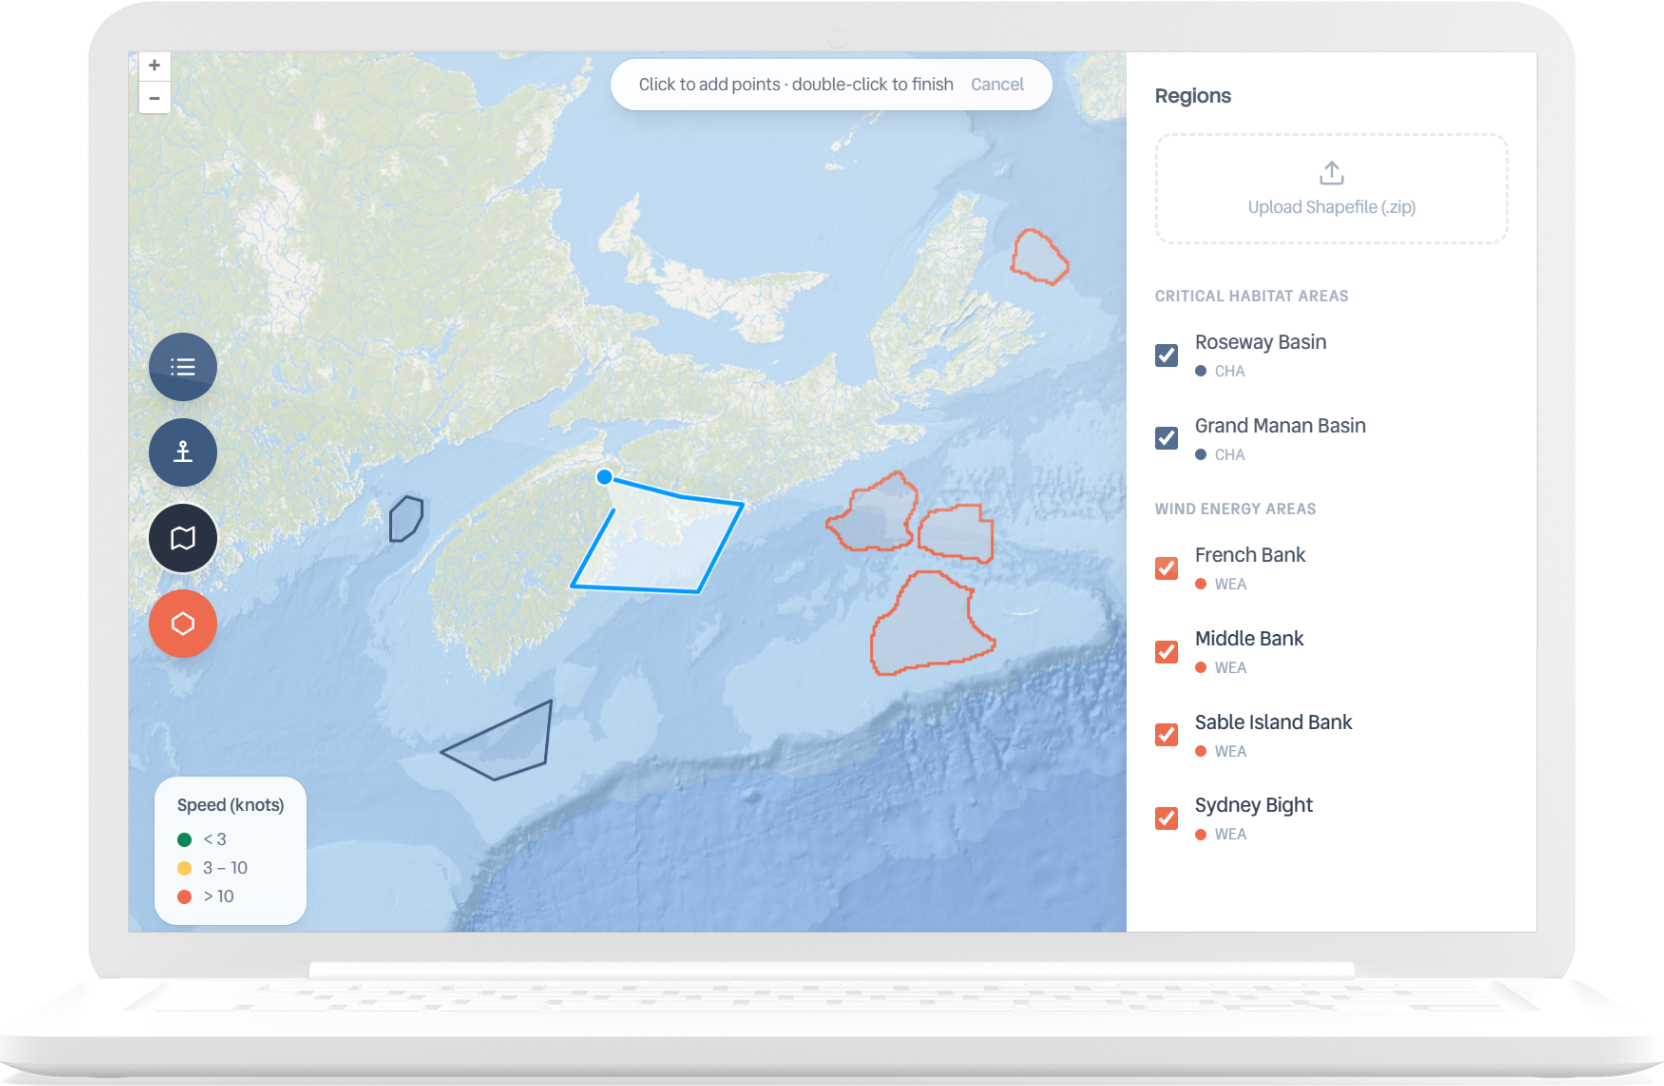
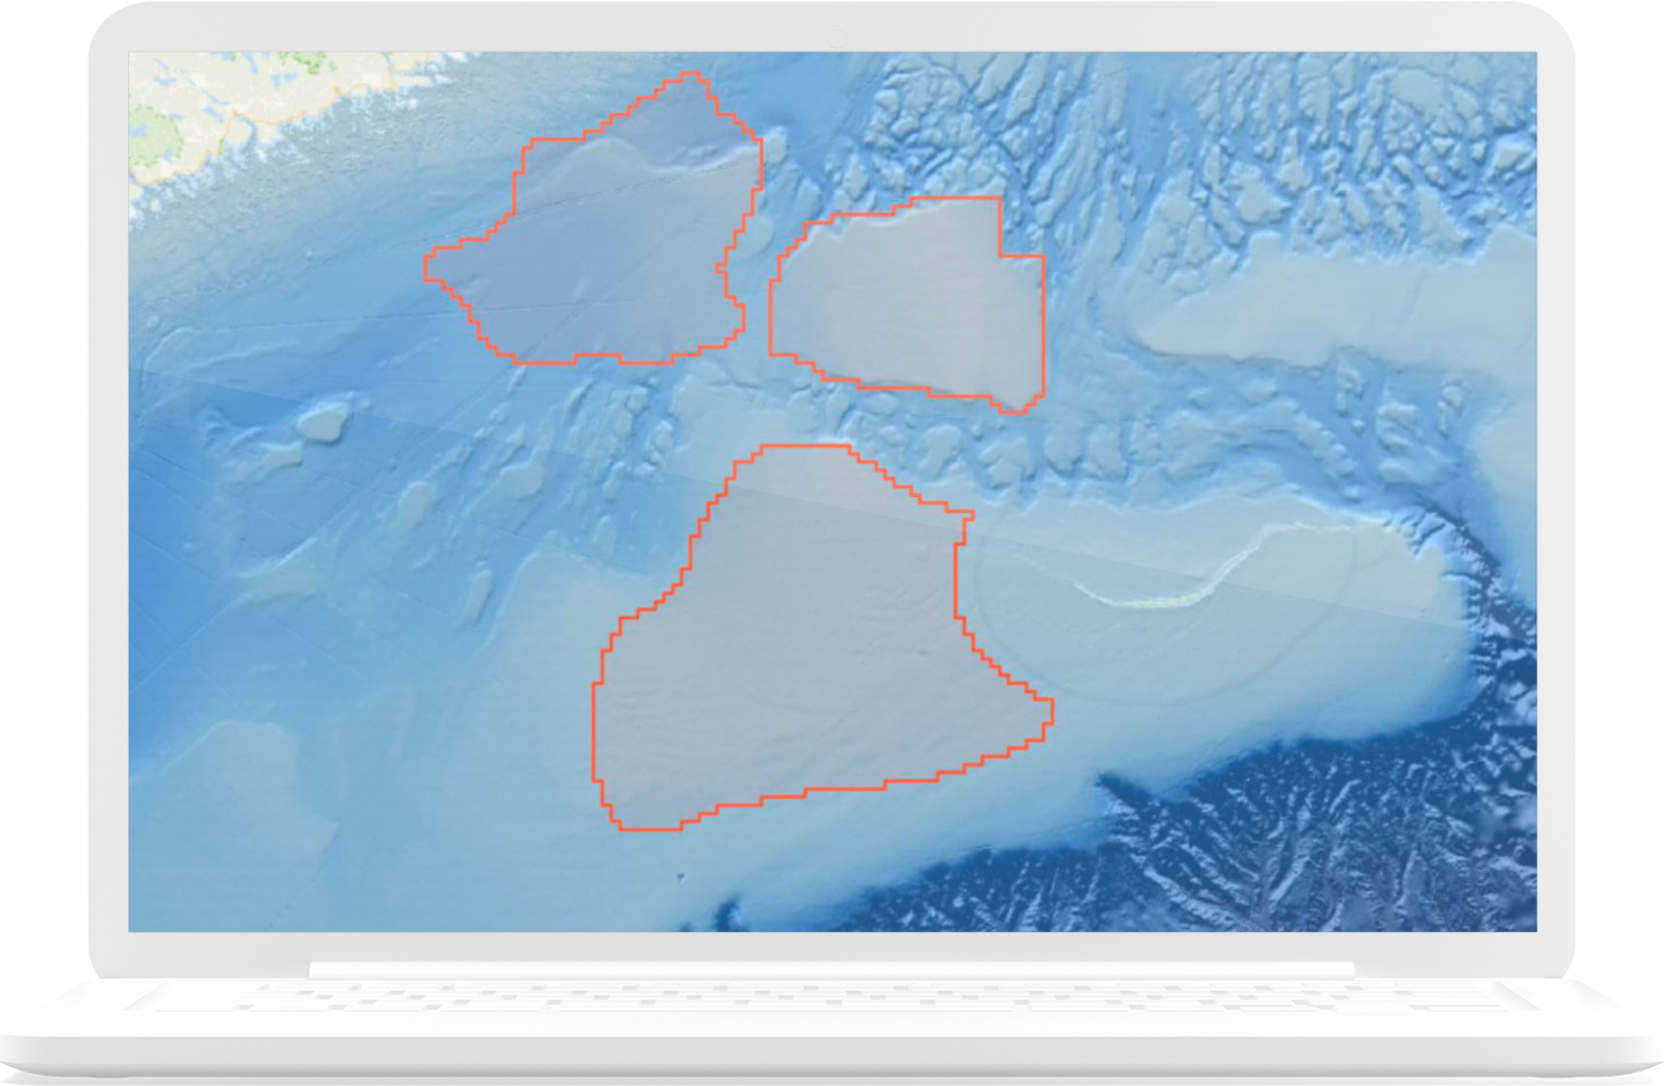
feat: hover effects on work pics + new section

diff --git a/app/work/page.tsx b/app/work/page.tsx
@@ -1,3 +1,5 @@
+import HoverImage from "@/components/HoverImage";
+
 export default function Work() {
   return (
     <main className="flex flex-grow flex-col gap-16 items-start justify-start py-10 max-w-3xl mx-auto w-full">
@@ -6,7 +8,7 @@ export default function Work() {
         style={{ animationDelay: "0s" }}
       >
         <h2 className="serif-regular text-gray-200 tracking-tight text-5xl text-left border-b border-gray-200">
-          recently
+          currently
         </h2>
 
         {/* todo: make spacing consistent */}
@@ -27,17 +29,25 @@ export default function Work() {
 
           {/* screenshots */}
           <div className="grid grid-cols-2 gap-3">
-            <img
-              src="/demos/work1.png"
-              className="rounded-lg w-full object-cover fade-in-bounce"
-              style={{ animationDelay: "0.2s" }}
-              alt="work screenshot 1"
-            />
-            <img
+            <div className="group flex flex-col gap-1">
+              <img
+                src="/demos/work1.png"
+                alt="work screenshot 1"
+                className="rounded-lg w-full object-cover fade-in-bounce hover:scale-102 transition-transform"
+                style={{ animationDelay: "0.2s" }}
+              />
+              <p className="text-xs coding-regular text-gray-400 text-center mt-1 opacity-0 group-hover:opacity-100 transition-opacity">
+                presented demo to 15+ scientists & stakeholders
+              </p>
+            </div>
+            <HoverImage
               src="/demos/work2.png"
-              className="rounded-lg w-full object-cover fade-in-bounce"
-              style={{ animationDelay: "0.4s" }}
               alt="work screenshot 2"
+              href="https://github.com/wrufay/ais_vessels"
+              label="building on github!"
+              caption="full-stack React, FastAPI, Postgres project"
+              className="rounded-lg w-full object-cover fade-in-bounce hover:scale-102 active:scale-98"
+              style={{ animationDelay: "0.4s" }}
             />
           </div>
         </div>
@@ -78,14 +88,72 @@ export default function Work() {
         </div> */}
       </section>
 
-      {/* <section
-        className="mt-16 mb-16 fade-in"
-        style={{ animationDelay: "0.3s" }}
+      <section
+        className="w-full flex flex-col gap-8 mt-8 fade-in"
+        style={{ animationDelay: "0.5s" }}
       >
-        <h1 className="coding-bold text-gray-300 text-5xl text-left">
-          design work - stay tuned
-        </h1>
-      </section> */}
+        <h2 className="serif-regular text-gray-200 tracking-tight text-5xl text-left border-b border-gray-200">
+          previously
+        </h2>
+
+        {/* todo: make spacing consistent */}
+        <div className="flex flex-col gap-2 sm:gap-4">
+          <div>
+            <h2 className="serif-bold text-gray-600 text-left text-lg">
+              founder
+            </h2>
+            <p className="text-sm coding-regular text-gray-400 text-left">
+              <a
+                href="https://hfxcodecircle.ca/"
+                target="_blank"
+                rel="noopener noreferrer"
+                className="border-b border-gray-200"
+              >
+                Halifax Code Circle
+              </a>
+              {" / "}
+              <a
+                href="https://hfxlanguages.ca/"
+                target="_blank"
+                rel="noopener noreferrer"
+                className="border-b border-gray-200"
+              >
+                Halifax Language Exchange
+              </a>
+              {" · Community"}
+            </p>
+          </div>
+
+          <p className="text-sm text-left">
+            Organized 2 non-profit communities in STEM foreign language, for
+            high-school students in Halifax.
+          </p>
+
+          {/* screenshots */}
+          <div className="grid grid-cols-2 gap-3">
+            <div className="group flex flex-col gap-1">
+              <img
+                src="/demos/community1.png"
+                alt="community screenshot 1"
+                className="rounded-lg w-full object-cover fade-in-bounce hover:scale-102 transition-transform"
+                style={{ animationDelay: "0.2s" }}
+              />
+              <p className="text-xs coding-regular text-gray-400 text-center mt-1 opacity-0 group-hover:opacity-100 transition-opacity">
+                built with HTML/CSS/JS & lots of love ≺3
+              </p>
+            </div>
+            <HoverImage
+              src="/demos/community2.png"
+              alt="community screenshot 2"
+              href="https://drive.google.com/drive/u/2/folders/1Rv7DUqPjIlFByNf473ejKTx7Rx3Ofb4j"
+              label="see my (100+) designs!"
+              caption="50+ members, 500+ volunteer hours, 70+ meetups"
+              className="rounded-lg w-full object-cover fade-in-bounce hover:scale-102 active:scale-98"
+              style={{ animationDelay: "0.4s" }}
+            />
+          </div>
+        </div>
+      </section>
     </main>
   );
 }

diff --git a/components/HoverImage.tsx b/components/HoverImage.tsx
@@ -1,0 +1,49 @@
+"use client";
+import { useRef } from "react";
+
+interface HoverImageProps {
+  src: string;
+  alt: string;
+  href: string;
+  label: string;
+  caption?: string;
+  className?: string;
+  style?: React.CSSProperties;
+}
+
+export default function HoverImage({ src, alt, href, label, caption, className, style }: HoverImageProps) {
+  const tooltipRef = useRef<HTMLSpanElement>(null);
+
+  return (
+    <a
+      href={href}
+      target="_blank"
+      rel="noopener noreferrer"
+      className="group relative block cursor-none"
+      onMouseMove={(e) => {
+        const rect = e.currentTarget.getBoundingClientRect();
+        if (tooltipRef.current) {
+          tooltipRef.current.style.transform = `translate(${e.clientX - rect.left + 10}px, ${e.clientY - rect.top + 10}px)`;
+          tooltipRef.current.style.opacity = "1";
+        }
+      }}
+      onMouseLeave={() => {
+        if (tooltipRef.current) tooltipRef.current.style.opacity = "0";
+      }}
+    >
+      <img src={src} alt={alt} className={className} style={style} />
+      {caption && (
+        <p className="text-xs coding-regular text-gray-400 opacity-0 group-hover:opacity-100 transition-opacity text-center mt-1">
+          {caption}
+        </p>
+      )}
+      <span
+        ref={tooltipRef}
+        className="pointer-events-none absolute top-0 left-0 z-50 coding-regular text-[10px] bg-[var(--aritzia-blue)]/80 text-white px-2 py-1 rounded-md whitespace-nowrap opacity-0"
+        style={{ transition: "opacity 0.15s ease" }}
+      >
+        {label}
+      </span>
+    </a>
+  );
+}
